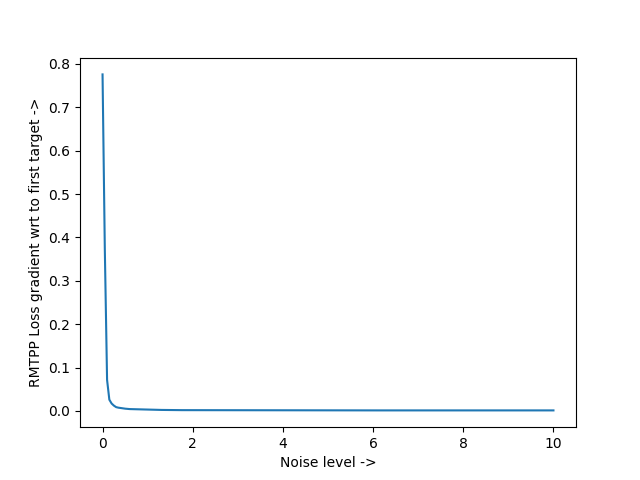
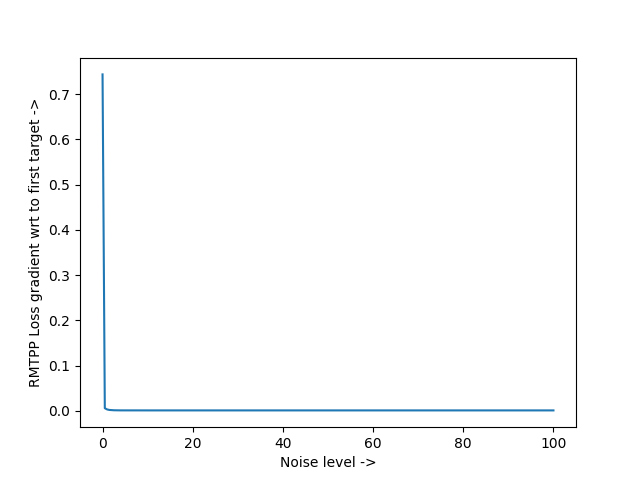
gradient z=0 to 100

diff --git a/noise.py b/noise.py
@@ -99,7 +99,7 @@ def evaluate_noise_loss():
 def evaluate_noise_loss_gradient():
     #model.eval()
 
-    errors = np.linspace(0,10,200)
+    errors = np.linspace(0,100,200)
     losses = []
 
     for z in errors:
@@ -196,5 +196,5 @@ if __name__=="__main__":
         evaluate()
 
     #evaluate_noise()
-    evaluate_noise_loss()
-    #evaluate_noise_loss_gradient()
+    #evaluate_noise_loss()
+    evaluate_noise_loss_gradient()
